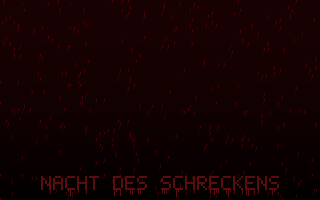
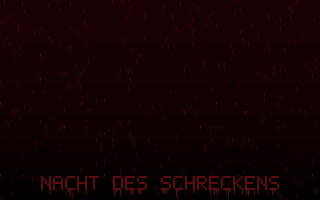
The title screen's rain falls as single drops (a leaning streak broke into two)

Changed region(s): [[0.6562, 0.99, 0.6875, 1.0], [0.5312, 0.99, 0.5625, 1.0]]

diff --git a/tools/theme.py b/tools/theme.py
@@ -69,12 +69,12 @@ def sky(rows, top, bottom):
 
 
 def rain(rows, density, color, length=6):
-    """Blood rain: thin streaks falling slightly to the left."""
+    """Blood rain: thin streaks, each one unbroken drop (leaning, a drop came apart in two)."""
     for x in range(0, WIDTH, 2):
         for y in range(0, HEIGHT, 3):
             if noise(x, y, 7) < density:
                 for k in range(length):
-                    px, py = x - k // 3, y + k
+                    px, py = x, y + k
                     if 0 <= px < WIDTH and 0 <= py < HEIGHT:
                         fade = 1 - k / length
                         rows[py][px] = mix(rows[py][px][:3], color, 0.4 * fade)
